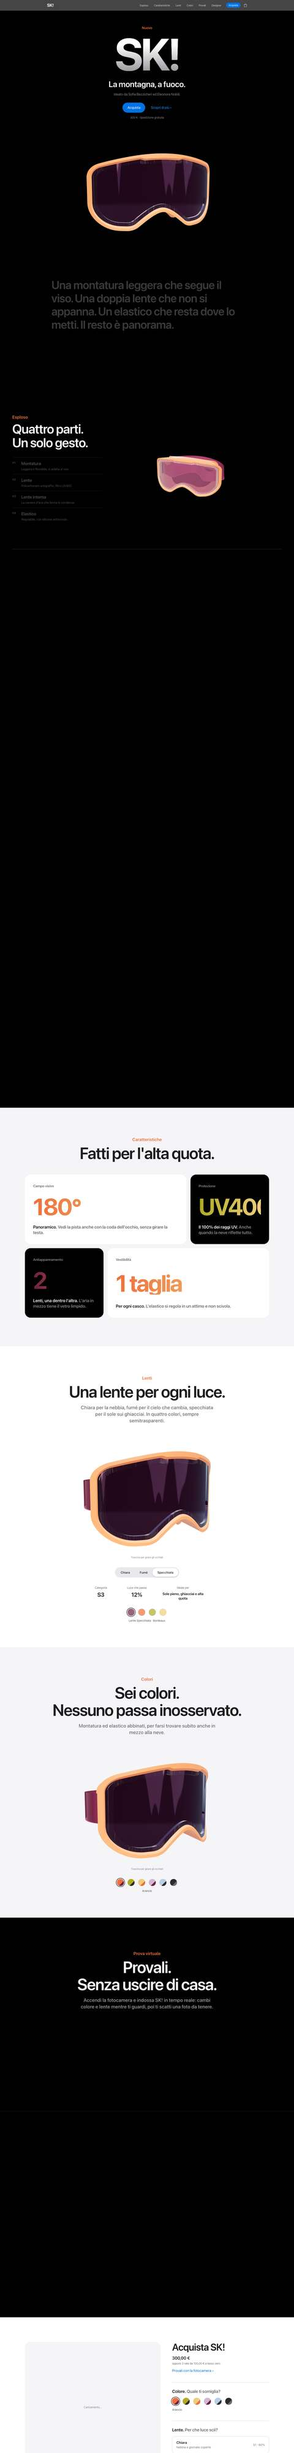
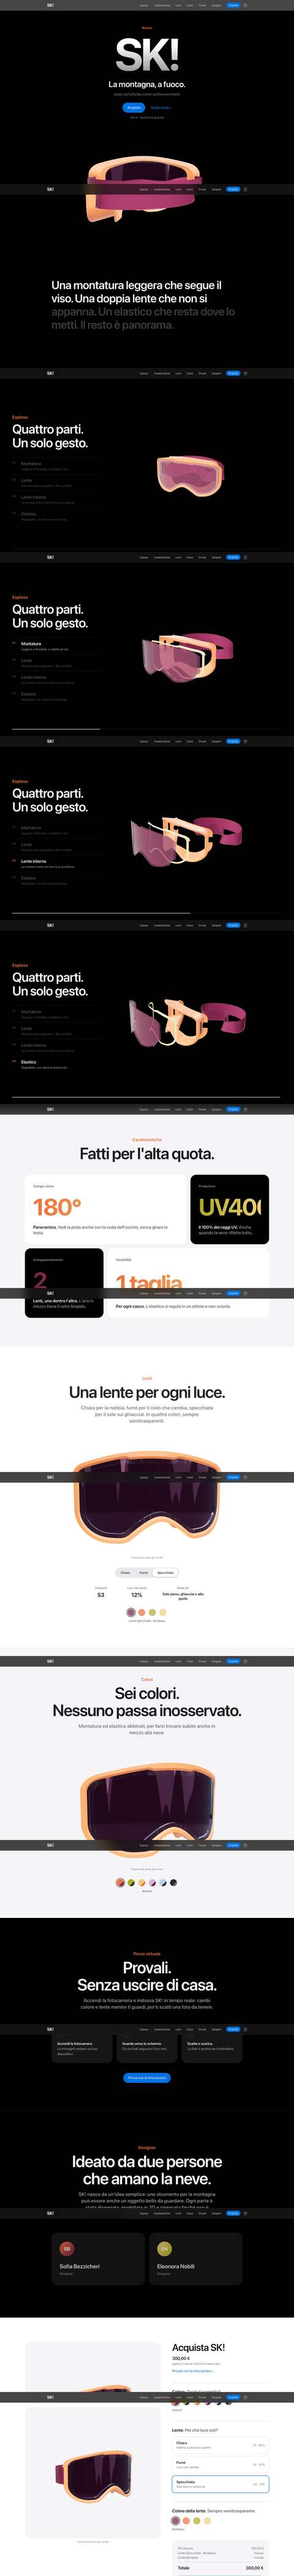
Anteprima pagina in un popup accanto alla scheda; pagine catturate a schermate

diff --git a/index.html b/index.html
@@ -36,14 +36,16 @@
     .filters button[aria-pressed="true"]{background:var(--fg);color:var(--bg);border-color:var(--fg)}
     .grid{row-gap:32px}
     .card-w{display:flex;flex-direction:column;gap:2px}
-    .shot{display:block;container-type:size;aspect-ratio:16/10;border-radius:8px;overflow:hidden;background:var(--shot);border:1px solid var(--line);position:relative;margin-bottom:8px}
+    .shot{display:block;aspect-ratio:16/10;border-radius:8px;overflow:hidden;background:var(--shot);border:1px solid var(--line);position:relative;margin-bottom:8px}
     .shot>img{width:100%;height:100%;object-fit:cover;object-position:center;display:block;transition:transform .35s ease}
     a.shot:hover>img{transform:scale(1.03)}
-    .peek{position:absolute;inset:0;overflow:hidden;opacity:0;transition:opacity .3s ease;background:var(--shot)}
-    .peek img{position:absolute;top:0;left:0;width:100%;height:auto;display:block;transform:translateY(0);transition:transform .5s ease}
-    a.shot:hover .peek,a.shot:focus-visible .peek{opacity:1}
-    a.shot:hover .peek img,a.shot:focus-visible .peek img{transform:translateY(calc(-100% + 100cqh));transition:transform var(--d,8s) cubic-bezier(.4,0,.6,1) .35s}
-    @media (hover:none){.peek{display:none}}
+    .pop{position:fixed;z-index:50;width:320px;border-radius:10px;overflow:hidden;background:var(--bg);border:1px solid var(--line);box-shadow:0 18px 50px rgba(0,0,0,.28),0 2px 8px rgba(0,0,0,.12);pointer-events:none;opacity:0;transform:scale(.96);transform-origin:var(--ox,left) top;transition:opacity .2s ease,transform .2s ease;visibility:hidden}
+    .pop.on{opacity:1;transform:none;visibility:visible}
+    .pop-bar{display:flex;align-items:center;gap:6px;padding:8px 10px;border-bottom:1px solid var(--line);background:var(--shot)}
+    .pop-bar i{width:8px;height:8px;border-radius:50%;background:var(--line);flex:none}
+    .pop-bar span{margin-left:6px;font-family:var(--mono);font-size:11px;color:var(--muted);white-space:nowrap;overflow:hidden;text-overflow:ellipsis}
+    .pop-view{height:420px;overflow:hidden;position:relative;background:var(--shot)}
+    .pop-view img{position:absolute;top:0;left:0;width:100%;height:auto;display:block}
     .ph{position:absolute;inset:0;display:grid;place-items:center;font-family:var(--mono);font-size:12px;color:var(--muted)}
     .proj{font-family:var(--display);font-weight:800;font-size:22px;line-height:1.1;letter-spacing:-.015em;margin:0}
     .name{font-size:14px;font-weight:500;margin:0}
@@ -53,7 +55,7 @@
     a:focus-visible,button:focus-visible{outline:2px solid var(--accent);outline-offset:2px}
     .only-online .todo{display:none}
     footer{padding-block:40px 56px;font-size:13px;color:var(--muted)}
-    @media (prefers-reduced-motion:reduce){.shot>img,.peek img{transition:none!important}a.shot:hover .peek img{transform:none}}
+    @media (prefers-reduced-motion:reduce){.shot>img,.pop{transition:none}}
   </style>
 </head>
 <body>
@@ -62,7 +64,7 @@
       <div class="eyebrow">UNIRSM · Lab web 2026/27 · Partizione B</div>
       <h1>Visiting workshop<br><span>Elena Cavallin</span></h1>
       <p class="contacts"><a href="https://www.linkedin.com/in/elenacavallin-designer/" target="_blank" rel="noopener">LinkedIn ↗</a> <a href="mailto:elena.cavallin.ec@gmail.com">elena.cavallin.ec@gmail.com</a></p>
-      <p class="lede">Gli occhiali sono stati modellati in 3D nel corso di modellazione. Durante il workshop ogni studente ha realizzato un sito per presentarli. Le immagini mostrano, dove possibile, la prova virtuale degli occhiali su volti generati al computer. In ordine alfabetico per cognome: passa sopra un'immagine per scorrere la pagina, clicca per aprire il sito.</p>
+      <p class="lede">Gli occhiali sono stati modellati in 3D nel corso di modellazione. Durante il workshop ogni studente ha realizzato un sito per presentarli. Le immagini mostrano, dove possibile, la prova virtuale degli occhiali su volti generati al computer. In ordine alfabetico per cognome: passa sopra un'immagine per vedere un'anteprima della pagina, clicca per aprire il sito.</p>
       <div class="meta">
         <span><b>27</b> / 28 online</span>
         <div class="filters" role="group" aria-label="Filtro">
@@ -75,7 +77,7 @@
     <main class="row grid" id="grid">
       <div class="col-12 col-sm-6 col-lg-4 col-xl-3">
         <article class="card-w">
-          <a class="shot" href="https://angelinisofia06.github.io/aeris.sofia.angelini/" target="_blank" rel="noopener" aria-label="Apri il sito di Sofia Angelini"><img src="thumbs/s04.jpg" alt="Anteprima del sito Aeris" loading="lazy"><span class="peek" style="--d:6.1s"><img src="pages/s04.jpg" alt="" loading="lazy"></span></a>
+          <a class="shot" href="https://angelinisofia06.github.io/aeris.sofia.angelini/" target="_blank" rel="noopener" aria-label="Apri il sito di Sofia Angelini" data-page="pages/s04.jpg" data-ratio="4.3750" data-host="angelinisofia06.github.io/aeris.sofia.angelini"><img src="thumbs/s04.jpg" alt="Anteprima del sito Aeris" loading="lazy"></a>
           <h2 class="proj">Aeris</h2>
           <p class="name">Sofia Angelini</p>
           <a class="url" href="https://angelinisofia06.github.io/aeris.sofia.angelini/" target="_blank" rel="noopener">angelinisofia06.github.io/aeris.sofia.angelini</a>
@@ -83,7 +85,7 @@
       </div>
       <div class="col-12 col-sm-6 col-lg-4 col-xl-3">
         <article class="card-w">
-          <a class="shot" href="https://sofiabezzicheri.github.io/" target="_blank" rel="noopener" aria-label="Apri il sito di Sofia Bezzicheri"><img src="thumbs/s05.jpg" alt="Anteprima del sito SK!" loading="lazy"><span class="peek" style="--d:12.0s"><img src="pages/s05.jpg" alt="" loading="lazy"></span></a>
+          <a class="shot" href="https://sofiabezzicheri.github.io/" target="_blank" rel="noopener" aria-label="Apri il sito di Sofia Bezzicheri" data-page="pages/s05.jpg" data-ratio="8.7500" data-host="sofiabezzicheri.github.io"><img src="thumbs/s05.jpg" alt="Anteprima del sito SK!" loading="lazy"></a>
           <h2 class="proj">SK!</h2>
           <p class="name">Sofia Bezzicheri</p>
           <a class="url" href="https://sofiabezzicheri.github.io/" target="_blank" rel="noopener">sofiabezzicheri.github.io</a>
@@ -91,7 +93,7 @@
       </div>
       <div class="col-12 col-sm-6 col-lg-4 col-xl-3">
         <article class="card-w">
-          <a class="shot" href="https://wiscoboy.github.io/boccarossa-visiting/" target="_blank" rel="noopener" aria-label="Apri il sito di Luigi Boccarossa"><img src="thumbs/s06.jpg" alt="Anteprima del sito Boccarossa" loading="lazy"><span class="peek" style="--d:5.5s"><img src="pages/s06.jpg" alt="" loading="lazy"></span></a>
+          <a class="shot" href="https://wiscoboy.github.io/boccarossa-visiting/" target="_blank" rel="noopener" aria-label="Apri il sito di Luigi Boccarossa" data-page="pages/s06.jpg" data-ratio="4.3750" data-host="wiscoboy.github.io/boccarossa-visiting"><img src="thumbs/s06.jpg" alt="Anteprima del sito Boccarossa" loading="lazy"></a>
           <h2 class="proj">Boccarossa</h2>
           <p class="name">Luigi Boccarossa</p>
           <a class="url" href="https://wiscoboy.github.io/boccarossa-visiting/" target="_blank" rel="noopener">wiscoboy.github.io/boccarossa-visiting</a>
@@ -106,7 +108,7 @@
       </div>
       <div class="col-12 col-sm-6 col-lg-4 col-xl-3">
         <article class="card-w">
-          <a class="shot" href="https://federicacancello06-alt.github.io/federicacancello-studio/" target="_blank" rel="noopener" aria-label="Apri il sito di Federica Cancello"><img src="thumbs/s08.jpg" alt="Anteprima del sito Federica Cancello Studio" loading="lazy"><span class="peek" style="--d:4.0s"><img src="pages/s08.jpg" alt="" loading="lazy"></span></a>
+          <a class="shot" href="https://federicacancello06-alt.github.io/federicacancello-studio/" target="_blank" rel="noopener" aria-label="Apri il sito di Federica Cancello" data-page="pages/s08.jpg" data-ratio="3.1250" data-host="federicacancello06-alt.github.io/federicacancello-studio"><img src="thumbs/s08.jpg" alt="Anteprima del sito Federica Cancello Studio" loading="lazy"></a>
           <h2 class="proj">Federica Cancello Studio</h2>
           <p class="name">Federica Cancello</p>
           <a class="url" href="https://federicacancello06-alt.github.io/federicacancello-studio/" target="_blank" rel="noopener">federicacancello06-alt.github.io/federicacancello-studio</a>
@@ -114,7 +116,7 @@
       </div>
       <div class="col-12 col-sm-6 col-lg-4 col-xl-3">
         <article class="card-w">
-          <a class="shot" href="https://marticarnevali14-crypto.github.io/sito_occhiali/" target="_blank" rel="noopener" aria-label="Apri il sito di Martina Carnevali"><img src="thumbs/s02.jpg" alt="Anteprima del sito Tina" loading="lazy"><span class="peek" style="--d:5.3s"><img src="pages/s02.jpg" alt="" loading="lazy"></span></a>
+          <a class="shot" href="https://marticarnevali14-crypto.github.io/sito_occhiali/" target="_blank" rel="noopener" aria-label="Apri il sito di Martina Carnevali" data-page="pages/s02.jpg" data-ratio="3.7500" data-host="marticarnevali14-crypto.github.io/sito_occhiali"><img src="thumbs/s02.jpg" alt="Anteprima del sito Tina" loading="lazy"></a>
           <h2 class="proj">Tina</h2>
           <p class="name">Martina Carnevali</p>
           <a class="url" href="https://marticarnevali14-crypto.github.io/sito_occhiali/" target="_blank" rel="noopener">marticarnevali14-crypto.github.io/sito_occhiali</a>
@@ -122,7 +124,7 @@
       </div>
       <div class="col-12 col-sm-6 col-lg-4 col-xl-3">
         <article class="card-w">
-          <a class="shot" href="https://niccocasanova-design.github.io/orbita/" target="_blank" rel="noopener" aria-label="Apri il sito di Nicco Casanova"><img src="thumbs/s03.jpg" alt="Anteprima del sito Orbita" loading="lazy"><span class="peek" style="--d:12.0s"><img src="pages/s03.jpg" alt="" loading="lazy"></span></a>
+          <a class="shot" href="https://niccocasanova-design.github.io/orbita/" target="_blank" rel="noopener" aria-label="Apri il sito di Nicco Casanova" data-page="pages/s03.jpg" data-ratio="8.7500" data-host="niccocasanova-design.github.io/orbita"><img src="thumbs/s03.jpg" alt="Anteprima del sito Orbita" loading="lazy"></a>
           <h2 class="proj">Orbita</h2>
           <p class="name">Nicco Casanova</p>
           <a class="url" href="https://niccocasanova-design.github.io/orbita/" target="_blank" rel="noopener">niccocasanova-design.github.io/orbita</a>
@@ -130,7 +132,7 @@
       </div>
       <div class="col-12 col-sm-6 col-lg-4 col-xl-3">
         <article class="card-w">
-          <a class="shot" href="https://giacomocerioni05-blip.github.io/carotino.github.io/" target="_blank" rel="noopener" aria-label="Apri il sito di Giacomo Cerioni"><img src="thumbs/s09.jpg" alt="Anteprima del sito Occhiali Protettivi" loading="lazy"><span class="peek" style="--d:12.0s"><img src="pages/s09.jpg" alt="" loading="lazy"></span></a>
+          <a class="shot" href="https://giacomocerioni05-blip.github.io/carotino.github.io/" target="_blank" rel="noopener" aria-label="Apri il sito di Giacomo Cerioni" data-page="pages/s09.jpg" data-ratio="8.7500" data-host="giacomocerioni05-blip.github.io/carotino.github.io"><img src="thumbs/s09.jpg" alt="Anteprima del sito Occhiali Protettivi" loading="lazy"></a>
           <h2 class="proj">Occhiali Protettivi</h2>
           <p class="name">Giacomo Cerioni</p>
           <a class="url" href="https://giacomocerioni05-blip.github.io/carotino.github.io/" target="_blank" rel="noopener">giacomocerioni05-blip.github.io/carotino.github.io</a>
@@ -138,7 +140,7 @@
       </div>
       <div class="col-12 col-sm-6 col-lg-4 col-xl-3">
         <article class="card-w">
-          <a class="shot" href="https://adele-collab.github.io/ADE/" target="_blank" rel="noopener" aria-label="Apri il sito di Adele De Marini"><img src="thumbs/s10.jpg" alt="Anteprima del sito ADE" loading="lazy"><span class="peek" style="--d:10.0s"><img src="pages/s10.jpg" alt="" loading="lazy"></span></a>
+          <a class="shot" href="https://adele-collab.github.io/ADE/" target="_blank" rel="noopener" aria-label="Apri il sito di Adele De Marini" data-page="pages/s10.jpg" data-ratio="7.5000" data-host="adele-collab.github.io/ADE"><img src="thumbs/s10.jpg" alt="Anteprima del sito ADE" loading="lazy"></a>
           <h2 class="proj">ADE</h2>
           <p class="name">Adele De Marini</p>
           <a class="url" href="https://adele-collab.github.io/ADE/" target="_blank" rel="noopener">adele-collab.github.io/ADE</a>
@@ -146,7 +148,7 @@
       </div>
       <div class="col-12 col-sm-6 col-lg-4 col-xl-3">
         <article class="card-w">
-          <a class="shot" href="https://delbiancojacopo75-eng.github.io/delbiancojacopo757/sito_github/" target="_blank" rel="noopener" aria-label="Apri il sito di Jacopo Del Bianco"><img src="thumbs/s11.jpg" alt="Anteprima del sito CMF-1" loading="lazy"><span class="peek" style="--d:10.6s"><img src="pages/s11.jpg" alt="" loading="lazy"></span></a>
+          <a class="shot" href="https://delbiancojacopo75-eng.github.io/delbiancojacopo757/sito_github/" target="_blank" rel="noopener" aria-label="Apri il sito di Jacopo Del Bianco" data-page="pages/s11.jpg" data-ratio="7.5000" data-host="delbiancojacopo75-eng.github.io/delbiancojacopo757/sito_github"><img src="thumbs/s11.jpg" alt="Anteprima del sito CMF-1" loading="lazy"></a>
           <h2 class="proj">CMF-1</h2>
           <p class="name">Jacopo Del Bianco</p>
           <a class="url" href="https://delbiancojacopo75-eng.github.io/delbiancojacopo757/sito_github/" target="_blank" rel="noopener">delbiancojacopo75-eng.github.io/delbiancojacopo757/sito_github</a>
@@ -154,7 +156,7 @@
       </div>
       <div class="col-12 col-sm-6 col-lg-4 col-xl-3">
         <article class="card-w">
-          <a class="shot" href="https://eddi1517.github.io/ED-01/" target="_blank" rel="noopener" aria-label="Apri il sito di Edoardo Fabbri"><img src="thumbs/s12.jpg" alt="Anteprima del sito ED-01" loading="lazy"><span class="peek" style="--d:4.0s"><img src="pages/s12.jpg" alt="" loading="lazy"></span></a>
+          <a class="shot" href="https://eddi1517.github.io/ED-01/" target="_blank" rel="noopener" aria-label="Apri il sito di Edoardo Fabbri" data-page="pages/s12.jpg" data-ratio="2.8042" data-host="eddi1517.github.io/ED-01"><img src="thumbs/s12.jpg" alt="Anteprima del sito ED-01" loading="lazy"></a>
           <h2 class="proj">ED-01</h2>
           <p class="name">Edoardo Fabbri</p>
           <a class="url" href="https://eddi1517.github.io/ED-01/" target="_blank" rel="noopener">eddi1517.github.io/ED-01</a>
@@ -162,7 +164,7 @@
       </div>
       <div class="col-12 col-sm-6 col-lg-4 col-xl-3">
         <article class="card-w">
-          <a class="shot" href="https://frensisssssss.github.io/#ascolta" target="_blank" rel="noopener" aria-label="Apri il sito di Francesca Galli"><img src="thumbs/s13.jpg" alt="Anteprima del sito Occhiali 3D Franci" loading="lazy"><span class="peek" style="--d:12.0s"><img src="pages/s13.jpg" alt="" loading="lazy"></span></a>
+          <a class="shot" href="https://frensisssssss.github.io/#ascolta" target="_blank" rel="noopener" aria-label="Apri il sito di Francesca Galli" data-page="pages/s13.jpg" data-ratio="8.3333" data-host="frensisssssss.github.io/#ascolta"><img src="thumbs/s13.jpg" alt="Anteprima del sito Occhiali 3D Franci" loading="lazy"></a>
           <h2 class="proj">Occhiali 3D Franci</h2>
           <p class="name">Francesca Galli</p>
           <a class="url" href="https://frensisssssss.github.io/#ascolta" target="_blank" rel="noopener">frensisssssss.github.io/#ascolta</a>
@@ -170,7 +172,7 @@
       </div>
       <div class="col-12 col-sm-6 col-lg-4 col-xl-3">
         <article class="card-w">
-          <a class="shot" href="https://workshop-we.vercel.app/" target="_blank" rel="noopener" aria-label="Apri il sito di Linda Garnaroli"><img src="thumbs/s14.jpg" alt="Anteprima del sito Vento" loading="lazy"><span class="peek" style="--d:5.9s"><img src="pages/s14.jpg" alt="" loading="lazy"></span></a>
+          <a class="shot" href="https://workshop-we.vercel.app/" target="_blank" rel="noopener" aria-label="Apri il sito di Linda Garnaroli" data-page="pages/s14.jpg" data-ratio="4.1125" data-host="workshop-we.vercel.app"><img src="thumbs/s14.jpg" alt="Anteprima del sito Vento" loading="lazy"></a>
           <h2 class="proj">Vento</h2>
           <p class="name">Linda Garnaroli</p>
           <a class="url" href="https://workshop-we.vercel.app/" target="_blank" rel="noopener">workshop-we.vercel.app</a>
@@ -178,7 +180,7 @@
       </div>
       <div class="col-12 col-sm-6 col-lg-4 col-xl-3">
         <article class="card-w">
-          <a class="shot" href="https://lucagiorgetti006.github.io/eclisseocchiali/" target="_blank" rel="noopener" aria-label="Apri il sito di Luca Giorgetti"><img src="thumbs/s15.jpg" alt="Anteprima del sito Eclisse" loading="lazy"><span class="peek" style="--d:4.7s"><img src="pages/s15.jpg" alt="" loading="lazy"></span></a>
+          <a class="shot" href="https://lucagiorgetti006.github.io/eclisseocchiali/" target="_blank" rel="noopener" aria-label="Apri il sito di Luca Giorgetti" data-page="pages/s15.jpg" data-ratio="3.2917" data-host="lucagiorgetti006.github.io/eclisseocchiali"><img src="thumbs/s15.jpg" alt="Anteprima del sito Eclisse" loading="lazy"></a>
           <h2 class="proj">Eclisse</h2>
           <p class="name">Luca Giorgetti</p>
           <a class="url" href="https://lucagiorgetti006.github.io/eclisseocchiali/" target="_blank" rel="noopener">lucagiorgetti006.github.io/eclisseocchiali</a>
@@ -186,7 +188,7 @@
       </div>
       <div class="col-12 col-sm-6 col-lg-4 col-xl-3">
         <article class="card-w">
-          <a class="shot" href="https://guezgueztakwa-ai.github.io/glasses/" target="_blank" rel="noopener" aria-label="Apri il sito di Takwa Guezguez"><img src="thumbs/s16.jpg" alt="Anteprima del sito TG One" loading="lazy"><span class="peek" style="--d:10.3s"><img src="pages/s16.jpg" alt="" loading="lazy"></span></a>
+          <a class="shot" href="https://guezgueztakwa-ai.github.io/glasses/" target="_blank" rel="noopener" aria-label="Apri il sito di Takwa Guezguez" data-page="pages/s16.jpg" data-ratio="7.5000" data-host="guezgueztakwa-ai.github.io/glasses"><img src="thumbs/s16.jpg" alt="Anteprima del sito TG One" loading="lazy"></a>
           <h2 class="proj">TG One</h2>
           <p class="name">Takwa Guezguez</p>
           <a class="url" href="https://guezgueztakwa-ai.github.io/glasses/" target="_blank" rel="noopener">guezgueztakwa-ai.github.io/glasses</a>
@@ -194,7 +196,7 @@
       </div>
       <div class="col-12 col-sm-6 col-lg-4 col-xl-3">
         <article class="card-w">
-          <a class="shot" href="https://gambling-vert.vercel.app/" target="_blank" rel="noopener" aria-label="Apri il sito di Fiorenzo Marinelli"><img src="thumbs/s17.jpg" alt="Anteprima del sito Gambling" loading="lazy"><span class="peek" style="--d:9.2s"><img src="pages/s17.jpg" alt="" loading="lazy"></span></a>
+          <a class="shot" href="https://gambling-vert.vercel.app/" target="_blank" rel="noopener" aria-label="Apri il sito di Fiorenzo Marinelli" data-page="pages/s17.jpg" data-ratio="6.8750" data-host="gambling-vert.vercel.app"><img src="thumbs/s17.jpg" alt="Anteprima del sito Gambling" loading="lazy"></a>
           <h2 class="proj">Gambling</h2>
           <p class="name">Fiorenzo Marinelli</p>
           <a class="url" href="https://gambling-vert.vercel.app/" target="_blank" rel="noopener">gambling-vert.vercel.app</a>
@@ -202,7 +204,7 @@
       </div>
       <div class="col-12 col-sm-6 col-lg-4 col-xl-3">
         <article class="card-w">
-          <a class="shot" href="https://violamongiusti05-del.github.io/occhiali-veloci/" target="_blank" rel="noopener" aria-label="Apri il sito di Viola Mongiusti"><img src="thumbs/s18.jpg" alt="Anteprima del sito Occhiali veloci" loading="lazy"><span class="peek" style="--d:5.1s"><img src="pages/s18.jpg" alt="" loading="lazy"></span></a>
+          <a class="shot" href="https://violamongiusti05-del.github.io/occhiali-veloci/" target="_blank" rel="noopener" aria-label="Apri il sito di Viola Mongiusti" data-page="pages/s18.jpg" data-ratio="3.5208" data-host="violamongiusti05-del.github.io/occhiali-veloci"><img src="thumbs/s18.jpg" alt="Anteprima del sito Occhiali veloci" loading="lazy"></a>
           <h2 class="proj">Occhiali veloci</h2>
           <p class="name">Viola Mongiusti</p>
           <a class="url" href="https://violamongiusti05-del.github.io/occhiali-veloci/" target="_blank" rel="noopener">violamongiusti05-del.github.io/occhiali-veloci</a>
@@ -210,7 +212,7 @@
       </div>
       <div class="col-12 col-sm-6 col-lg-4 col-xl-3">
         <article class="card-w">
-          <a class="shot" href="https://morriiale.github.io/morri.github.ioo/" target="_blank" rel="noopener" aria-label="Apri il sito di Alessandro Morri"><img src="thumbs/s19.jpg" alt="Anteprima del sito Morri" loading="lazy"><span class="peek" style="--d:12.0s"><img src="pages/s19.jpg" alt="" loading="lazy"></span></a>
+          <a class="shot" href="https://morriiale.github.io/morri.github.ioo/" target="_blank" rel="noopener" aria-label="Apri il sito di Alessandro Morri" data-page="pages/s19.jpg" data-ratio="8.7500" data-host="morriiale.github.io/morri.github.ioo"><img src="thumbs/s19.jpg" alt="Anteprima del sito Morri" loading="lazy"></a>
           <h2 class="proj">Morri</h2>
           <p class="name">Alessandro Morri</p>
           <a class="url" href="https://morriiale.github.io/morri.github.ioo/" target="_blank" rel="noopener">morriiale.github.io/morri.github.ioo</a>
@@ -218,7 +220,7 @@
       </div>
       <div class="col-12 col-sm-6 col-lg-4 col-xl-3">
         <article class="card-w">
-          <a class="shot" href="https://niska-333.github.io/" target="_blank" rel="noopener" aria-label="Apri il sito di Eleonora Nobili"><img src="thumbs/s20.jpg" alt="Anteprima del sito Ski Goggles" loading="lazy"><span class="peek" style="--d:10.6s"><img src="pages/s20.jpg" alt="" loading="lazy"></span></a>
+          <a class="shot" href="https://niska-333.github.io/" target="_blank" rel="noopener" aria-label="Apri il sito di Eleonora Nobili" data-page="pages/s20.jpg" data-ratio="7.5000" data-host="niska-333.github.io"><img src="thumbs/s20.jpg" alt="Anteprima del sito Ski Goggles" loading="lazy"></a>
           <h2 class="proj">Ski Goggles</h2>
           <p class="name">Eleonora Nobili</p>
           <a class="url" href="https://niska-333.github.io/" target="_blank" rel="noopener">niska-333.github.io</a>
@@ -226,7 +228,7 @@
       </div>
       <div class="col-12 col-sm-6 col-lg-4 col-xl-3">
         <article class="card-w">
-          <a class="shot" href="https://palstudio-source.github.io/pal.SG-01/SG-01_Workshop/" target="_blank" rel="noopener" aria-label="Apri il sito di Federico Palladino"><img src="thumbs/s21.jpg" alt="Anteprima del sito SG-01" loading="lazy"><span class="peek" style="--d:12.0s"><img src="pages/s21.jpg" alt="" loading="lazy"></span></a>
+          <a class="shot" href="https://palstudio-source.github.io/pal.SG-01/SG-01_Workshop/" target="_blank" rel="noopener" aria-label="Apri il sito di Federico Palladino" data-page="pages/s21.jpg" data-ratio="8.7500" data-host="palstudio-source.github.io/pal.SG-01/SG-01_Workshop"><img src="thumbs/s21.jpg" alt="Anteprima del sito SG-01" loading="lazy"></a>
           <h2 class="proj">SG-01</h2>
           <p class="name">Federico Palladino</p>
           <a class="url" href="https://palstudio-source.github.io/pal.SG-01/SG-01_Workshop/" target="_blank" rel="noopener">palstudio-source.github.io/pal.SG-01/SG-01_Workshop</a>
@@ -234,7 +236,7 @@
       </div>
       <div class="col-12 col-sm-6 col-lg-4 col-xl-3">
         <article class="card-w">
-          <a class="shot" href="https://annuz-2.github.io/aaaaaaa/" target="_blank" rel="noopener" aria-label="Apri il sito di Anna Porcellini"><img src="thumbs/s22.jpg" alt="Anteprima del sito Sguardi" loading="lazy"><span class="peek" style="--d:10.7s"><img src="pages/s22.jpg" alt="" loading="lazy"></span></a>
+          <a class="shot" href="https://annuz-2.github.io/aaaaaaa/" target="_blank" rel="noopener" aria-label="Apri il sito di Anna Porcellini" data-page="pages/s22.jpg" data-ratio="7.5000" data-host="annuz-2.github.io/aaaaaaa"><img src="thumbs/s22.jpg" alt="Anteprima del sito Sguardi" loading="lazy"></a>
           <h2 class="proj">Sguardi</h2>
           <p class="name">Anna Porcellini</p>
           <a class="url" href="https://annuz-2.github.io/aaaaaaa/" target="_blank" rel="noopener">annuz-2.github.io/aaaaaaa</a>
@@ -242,7 +244,7 @@
       </div>
       <div class="col-12 col-sm-6 col-lg-4 col-xl-3">
         <article class="card-w">
-          <a class="shot" href="https://emilyrambelli-sketch.github.io/occhiali-bubblegum-/" target="_blank" rel="noopener" aria-label="Apri il sito di Emily Rambelli"><img src="thumbs/s01.jpg" alt="Anteprima del sito Bubblegum" loading="lazy"><span class="peek" style="--d:9.6s"><img src="pages/s01.jpg" alt="" loading="lazy"></span></a>
+          <a class="shot" href="https://emilyrambelli-sketch.github.io/occhiali-bubblegum-/" target="_blank" rel="noopener" aria-label="Apri il sito di Emily Rambelli" data-page="pages/s01.jpg" data-ratio="6.8750" data-host="emilyrambelli-sketch.github.io/occhiali-bubblegum-"><img src="thumbs/s01.jpg" alt="Anteprima del sito Bubblegum" loading="lazy"></a>
           <h2 class="proj">Bubblegum</h2>
           <p class="name">Emily Rambelli</p>
           <a class="url" href="https://emilyrambelli-sketch.github.io/occhiali-bubblegum-/" target="_blank" rel="noopener">emilyrambelli-sketch.github.io/occhiali-bubblegum-</a>
@@ -250,7 +252,7 @@
       </div>
       <div class="col-12 col-sm-6 col-lg-4 col-xl-3">
         <article class="card-w">
-          <a class="shot" href="https://camilasaravia1234-star.github.io/orizzonte/?v=4" target="_blank" rel="noopener" aria-label="Apri il sito di Camila Saravia Ruiz"><img src="thumbs/s23.jpg" alt="Anteprima del sito Orizzonte" loading="lazy"><span class="peek" style="--d:10.0s"><img src="pages/s23.jpg" alt="" loading="lazy"></span></a>
+          <a class="shot" href="https://camilasaravia1234-star.github.io/orizzonte/?v=4" target="_blank" rel="noopener" aria-label="Apri il sito di Camila Saravia Ruiz" data-page="pages/s23.jpg" data-ratio="7.5000" data-host="camilasaravia1234-star.github.io/orizzonte/?v=4"><img src="thumbs/s23.jpg" alt="Anteprima del sito Orizzonte" loading="lazy"></a>
           <h2 class="proj">Orizzonte</h2>
           <p class="name">Camila Saravia Ruiz</p>
           <a class="url" href="https://camilasaravia1234-star.github.io/orizzonte/?v=4" target="_blank" rel="noopener">camilasaravia1234-star.github.io/orizzonte/?v=4</a>
@@ -258,7 +260,7 @@
       </div>
       <div class="col-12 col-sm-6 col-lg-4 col-xl-3">
         <article class="card-w">
-          <a class="shot" href="https://wiscoboy.github.io/occhiale/" target="_blank" rel="noopener" aria-label="Apri il sito di Davide Sebastianelli"><img src="thumbs/s24.jpg" alt="Anteprima del sito Modello Uno" loading="lazy"><span class="peek" style="--d:9.4s"><img src="pages/s24.jpg" alt="" loading="lazy"></span></a>
+          <a class="shot" href="https://wiscoboy.github.io/occhiale/" target="_blank" rel="noopener" aria-label="Apri il sito di Davide Sebastianelli" data-page="pages/s24.jpg" data-ratio="6.8750" data-host="wiscoboy.github.io/occhiale"><img src="thumbs/s24.jpg" alt="Anteprima del sito Modello Uno" loading="lazy"></a>
           <h2 class="proj">Modello Uno</h2>
           <p class="name">Davide Sebastianelli</p>
           <a class="url" href="https://wiscoboy.github.io/occhiale/" target="_blank" rel="noopener">wiscoboy.github.io/occhiale</a>
@@ -266,7 +268,7 @@
       </div>
       <div class="col-12 col-sm-6 col-lg-4 col-xl-3">
         <article class="card-w">
-          <a class="shot" href="https://davorsilic02.github.io/davorsilicgithub.io/" target="_blank" rel="noopener" aria-label="Apri il sito di Davor Silic"><img src="thumbs/s25.jpg" alt="Anteprima del sito Grafite" loading="lazy"><span class="peek" style="--d:8.9s"><img src="pages/s25.jpg" alt="" loading="lazy"></span></a>
+          <a class="shot" href="https://davorsilic02.github.io/davorsilicgithub.io/" target="_blank" rel="noopener" aria-label="Apri il sito di Davor Silic" data-page="pages/s25.jpg" data-ratio="6.2500" data-host="davorsilic02.github.io/davorsilicgithub.io"><img src="thumbs/s25.jpg" alt="Anteprima del sito Grafite" loading="lazy"></a>
           <h2 class="proj">Grafite</h2>
           <p class="name">Davor Silic</p>
           <a class="url" href="https://davorsilic02.github.io/davorsilicgithub.io/" target="_blank" rel="noopener">davorsilic02.github.io/davorsilicgithub.io</a>
@@ -274,7 +276,7 @@
       </div>
       <div class="col-12 col-sm-6 col-lg-4 col-xl-3">
         <article class="card-w">
-          <a class="shot" href="https://giemmmmm.github.io/" target="_blank" rel="noopener" aria-label="Apri il sito di Gianmarco Tito"><img src="thumbs/s26.jpg" alt="Anteprima del sito gmt.studio" loading="lazy"><span class="peek" style="--d:12.0s"><img src="pages/s26.jpg" alt="" loading="lazy"></span></a>
+          <a class="shot" href="https://giemmmmm.github.io/" target="_blank" rel="noopener" aria-label="Apri il sito di Gianmarco Tito" data-page="pages/s26.jpg" data-ratio="8.7500" data-host="giemmmmm.github.io"><img src="thumbs/s26.jpg" alt="Anteprima del sito gmt.studio" loading="lazy"></a>
           <h2 class="proj">gmt.studio</h2>
           <p class="name">Gianmarco Tito</p>
           <a class="url" href="https://giemmmmm.github.io/" target="_blank" rel="noopener">giemmmmm.github.io</a>
@@ -282,7 +284,7 @@
       </div>
       <div class="col-12 col-sm-6 col-lg-4 col-xl-3">
         <article class="card-w">
-          <a class="shot" href="https://valentinavicinanza03.github.io/" target="_blank" rel="noopener" aria-label="Apri il sito di Valentina Vicinanza"><img src="thumbs/s27.jpg" alt="Anteprima del sito Ombra" loading="lazy"><span class="peek" style="--d:12.0s"><img src="pages/s27.jpg" alt="" loading="lazy"></span></a>
+          <a class="shot" href="https://valentinavicinanza03.github.io/" target="_blank" rel="noopener" aria-label="Apri il sito di Valentina Vicinanza" data-page="pages/s27.jpg" data-ratio="8.7500" data-host="valentinavicinanza03.github.io"><img src="thumbs/s27.jpg" alt="Anteprima del sito Ombra" loading="lazy"></a>
           <h2 class="proj">Ombra</h2>
           <p class="name">Valentina Vicinanza</p>
           <a class="url" href="https://valentinavicinanza03.github.io/" target="_blank" rel="noopener">valentinavicinanza03.github.io</a>
@@ -290,7 +292,7 @@
       </div>
       <div class="col-12 col-sm-6 col-lg-4 col-xl-3">
         <article class="card-w">
-          <a class="shot" href="https://leonza09lz-hub.github.io/leozaharia.github.io/" target="_blank" rel="noopener" aria-label="Apri il sito di Leonard Zaharia"><img src="thumbs/s28.jpg" alt="Anteprima del sito Sguardi" loading="lazy"><span class="peek" style="--d:4.9s"><img src="pages/s28.jpg" alt="" loading="lazy"></span></a>
+          <a class="shot" href="https://leonza09lz-hub.github.io/leozaharia.github.io/" target="_blank" rel="noopener" aria-label="Apri il sito di Leonard Zaharia" data-page="pages/s28.jpg" data-ratio="3.7500" data-host="leonza09lz-hub.github.io/leozaharia.github.io"><img src="thumbs/s28.jpg" alt="Anteprima del sito Sguardi" loading="lazy"></a>
           <h2 class="proj">Sguardi</h2>
           <p class="name">Leonard Zaharia</p>
           <a class="url" href="https://leonza09lz-hub.github.io/leozaharia.github.io/" target="_blank" rel="noopener">leonza09lz-hub.github.io/leozaharia.github.io</a>
@@ -301,10 +303,52 @@
     <footer>Corso tenuto da Corrado Loschi e Gian Andrea Giacobone.</footer>
   </div>
 
+  <div class="pop" id="pop" aria-hidden="true"><div class="pop-bar"><i></i><i></i><i></i><span id="pop-host"></span></div><div class="pop-view"><img id="pop-img" alt=""></div></div>
+
   <script>
     const grid = document.getElementById("grid"), all = document.getElementById("f-all"), on = document.getElementById("f-on");
     function set(v){ grid.classList.toggle("only-online", v); all.setAttribute("aria-pressed", !v); on.setAttribute("aria-pressed", v) }
     all.onclick = () => set(false); on.onclick = () => set(true);
+
+    // anteprima a scorrimento in un popup, solo con mouse
+    if (matchMedia("(hover:hover) and (pointer:fine)").matches) {
+      const pop = document.getElementById("pop"), img = document.getElementById("pop-img"), host = document.getElementById("pop-host");
+      const W = 320, VH = 420, GAP = 14, still = matchMedia("(prefers-reduced-motion:reduce)").matches;
+      let timer = null, cur = null;
+      function place(a){
+        const r = a.getBoundingClientRect(), H = pop.offsetHeight || VH + 32;
+        let x = r.right + GAP, side = "left";
+        if (x + W > innerWidth - 8) { x = r.left - GAP - W; side = "right" }
+        if (x < 8) { x = Math.max(8, r.left + (r.width - W) / 2) }
+        const y = Math.min(Math.max(8, r.top), innerHeight - H - 8);
+        pop.style.left = x + "px"; pop.style.top = Math.max(8, y) + "px"; pop.style.setProperty("--ox", side);
+      }
+      function show(a){
+        cur = a; host.textContent = a.dataset.host;
+        img.style.transition = "none"; img.style.transform = "translateY(0)";
+        if (img.getAttribute("src") !== a.dataset.page) { img.style.opacity = 0; img.onload = () => img.style.opacity = 1; img.src = a.dataset.page }
+        place(a); pop.classList.add("on");
+        if (still) return;
+        const travel = Math.max(0, W * parseFloat(a.dataset.ratio) - VH);
+        const d = Math.min(18, Math.max(4, travel / 260));
+        void img.offsetHeight;
+        img.style.transition = `transform ${d}s cubic-bezier(.45,0,.55,1) .5s`;
+        img.style.transform = `translateY(${-travel}px)`;
+      }
+      function hide(){ clearTimeout(timer); cur = null; pop.classList.remove("on") }
+      document.querySelectorAll("a.shot[data-page]").forEach(a => {
+        a.addEventListener("mouseenter", () => { clearTimeout(timer); timer = setTimeout(() => show(a), 300) });
+        a.addEventListener("mouseleave", hide);
+        a.addEventListener("focus", () => { if (a.matches(":focus-visible")) show(a) });
+        a.addEventListener("blur", hide);
+      });
+      addEventListener("scroll", () => { if (cur) place(cur) }, { passive: true });
+      // precarica le pagine dopo il caricamento, una alla volta
+      addEventListener("load", () => {
+        const q = [...document.querySelectorAll("a.shot[data-page]")].map(a => a.dataset.page);
+        (function next(){ const u = q.shift(); if (!u) return; const i = new Image(); i.onload = i.onerror = next; i.src = u })();
+      });
+    }
   </script>
 </body>
 </html>
